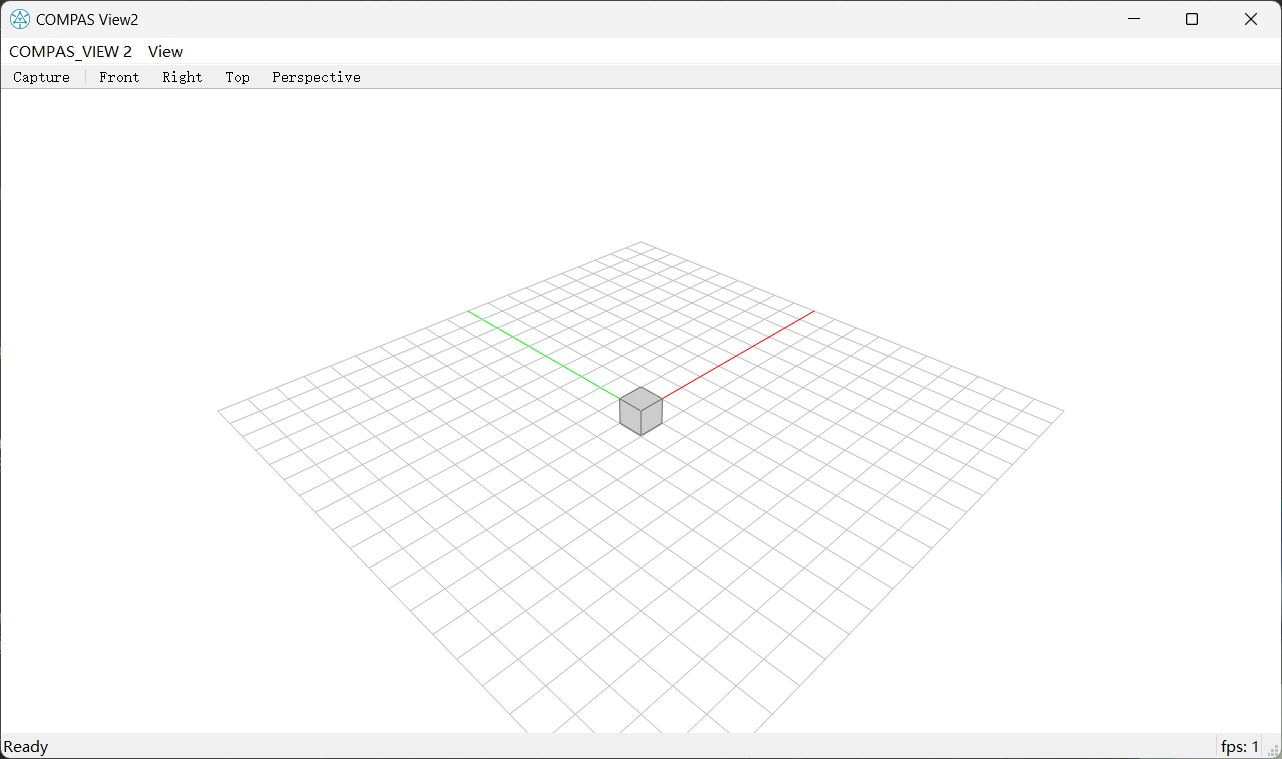
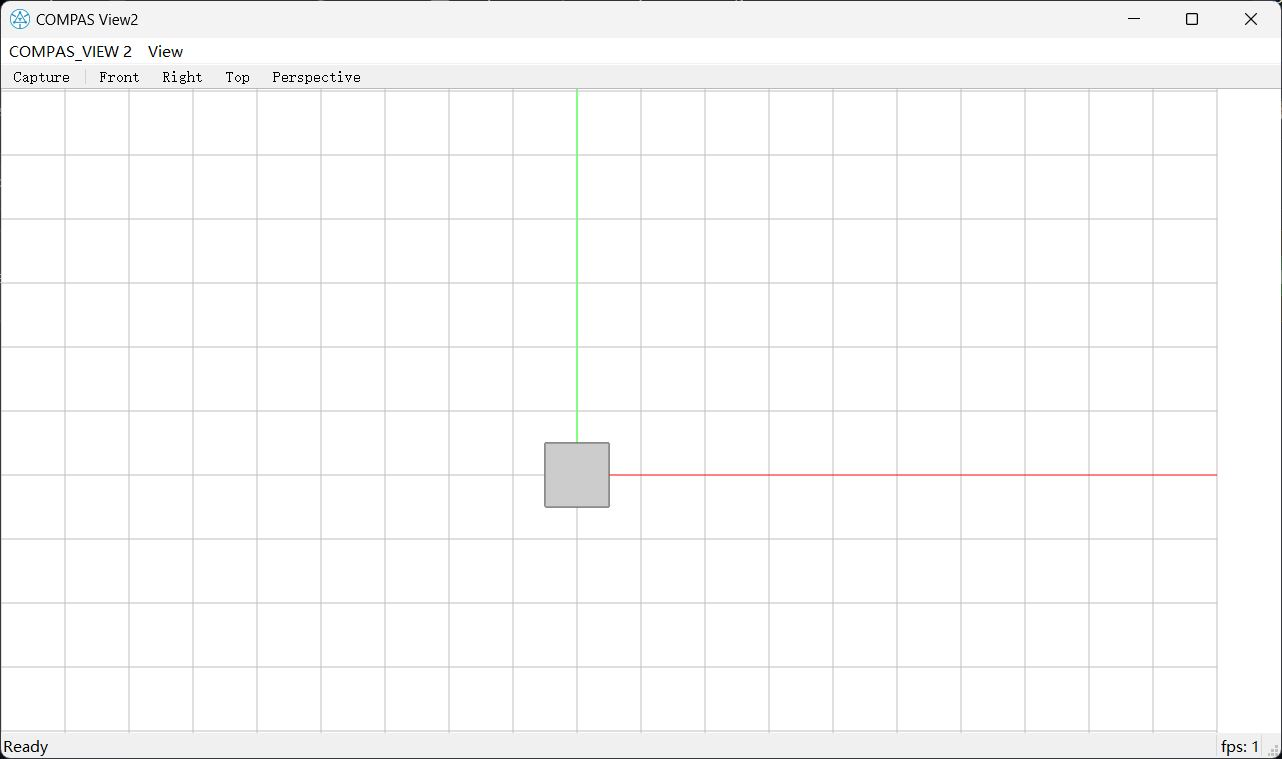
update the better solution

diff --git a/src/compas_view2/scene/camera.py b/src/compas_view2/scene/camera.py
@@ -137,7 +137,7 @@ class Camera:
         self.reset_position()
         if target:
             self.target = target
-        if position:
+        if position and view._current == 4:
             self.position = position
 
     @property
@@ -238,10 +238,7 @@ class Camera:
     def reset_position(self):
         """Reset the position of the camera based current view type."""
         self.target.set(0, 0, 0)
-        if (
-            self.view.current == self.view.VIEW_ANGLES["PERSPECTIVE"]
-            or self.view.current == self.view.VIEW_ANGLES["CUSTOM"]
-        ):
+        if self.view.current == self.view.VIEW_ANGLES["PERSPECTIVE"]:
             self.rotation.set(pi / 4, 0, -pi / 4)
         if self.view.current == self.view.VIEW_ANGLES["TOP"]:
             self.rotation.set(0, 0, 0)
@@ -269,10 +266,7 @@ class Camera:
         Camera rotations are only available if the current view is a perspective view (``camera.view.current == camera.view.VIEW_ANGLES["PERSPECTIVE"]``).
 
         """
-        if (
-            self.view.current == self.view.VIEW_ANGLES["PERSPECTIVE"]
-            or self.view.current == self.view.VIEW_ANGLES["CUSTOM"]
-        ):
+        if self.view.current == self.view.VIEW_ANGLES["PERSPECTIVE"]:
             self.rotation += [-self.rotation_delta * dy, 0, -self.rotation_delta * dx]
 
     def pan(self, dx, dy):
@@ -332,10 +326,7 @@ class Camera:
 
         """
         aspect = width / height
-        if (
-            self.view.current == self.view.VIEW_ANGLES["PERSPECTIVE"]
-            or self.view.current == self.view.VIEW_ANGLES["CUSTOM"]
-        ):
+        if self.view.current == self.view.VIEW_ANGLES["PERSPECTIVE"]:
             P = perspective(self.fov, aspect, self.near * self.scale, self.far * self.scale)
         else:
             left = -self.distance

diff --git a/src/compas_view2/views/view.py b/src/compas_view2/views/view.py
@@ -19,7 +19,7 @@ class View(QtWidgets.QOpenGLWidget):
         The view configuration.
     """
 
-    VIEW_ANGLES = {"CUSTOM": 0, "FRONT": 1, "RIGHT": 2, "TOP": 3, "PERSPECTIVE": 4}
+    VIEW_ANGLES = {"FRONT": 1, "RIGHT": 2, "TOP": 3, "PERSPECTIVE": 4}
 
     def __init__(self, app, view_config):
         super().__init__()
@@ -32,7 +32,7 @@ class View(QtWidgets.QOpenGLWidget):
         self.mode = view_config["view_mode"]
         self.selection_color = view_config["selection_color"]
         self.show_grid = view_config["show_grid"]
-        self.camera = Camera(self, **view_config["camera"]) if self._current == 0 else Camera(self)
+        self.camera = Camera(self, **view_config["camera"])
         self.grid = GridObject(1, 10, 10)
         self.objects = {}
         self.keys = {"shift": False, "control": False, "f": False}

diff --git a/docs/examples/control/example_camera_config.py b/docs/examples/control/example_camera_config.py
@@ -10,13 +10,13 @@ config = {
         "view_mode": "shaded",
         "background_color": [1, 1, 1, 1],
         "selection_color": [1.0, 1.0, 0.0],
-        "view_port": "CUSTOM",
+        "view_port": "TOP",
         "camera": {
             "fov": 45,
             "near": 0.1,
             "far": 1000,
             "position": [-15, -15, 15],
-            "target": [0, 0, 0],
+            "target": [1,1, 1],
             "scale": 1,
         },
     }

diff --git a/src/compas_view2/views/view120.py b/src/compas_view2/views/view120.py
@@ -119,7 +119,7 @@ class View120(View):
 
     def paint(self):
         viewworld = self.camera.viewworld()
-        if self.current != self.VIEW_ANGLES["PERSPECTIVE"] or self.current != self.VIEW_ANGLES["CUSTOM"]:
+        if self.current != self.VIEW_ANGLES["PERSPECTIVE"]:
             self.update_projection()
 
         # Draw instance maps

diff --git a/docs/examples/control/example_camera_config.rst b/docs/examples/control/example_camera_config.rst
@@ -20,8 +20,10 @@ By default, the camera is configed 45 dregees perspective:
 Custom Camera Config
 ====================
 
-You can customize the camera configreation by passing the dictionary to the viewer: fov, near, fac 100, position, target, scale.
+You can customize the camera configreation by passing the dictionary to the viewer: fov, near, fac, position, target, scale.
 
+.. note::
+   The `position` is not editable and would be ingored from the config file in `TOP`, `FRONT`, `RIGHT`modes.
 
 .. figure:: /_images/example_camera_config_2.jpg
     :figclass: figure
